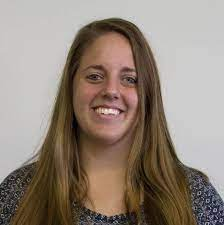
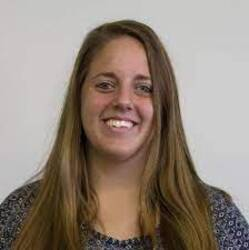
finally finished the people page (resizes correctly)

diff --git a/docs/people/index.html b/docs/people/index.html
@@ -69,15 +69,27 @@
     <!-- Convert images to right size using imagemajik-->
 <!-- from here:  https://askubuntu.com/questions/135477/how-can-i-scale-all-images-in-a-folder-to-the-same-width-->
 <!-- convert 'michelle.jpg[250x]' michelle-resized.jpg -->
-<p><img align="left" src="Silverman-Justin.jpg" style="max-width: 30%; border-radius: 50%; margin-right: 5%">  <br />  <br /><a href="http://justin-silverman.com">Justin Silverman (PI)</a></p>
-<p><img align="left" src="michelle-resized.jpg" style="max-width: 35%; border-radius: 50%; margin-right: 5%"> <br /> <br /><a href="https://ist.psu.edu/directory/map5672">Michelle Nixon (Assistant Research Professor)</a></p>
-<p><img align="left" src="kyle.png" style="max-width: 30%;  border-radius: 50%; margin-right: 5%"> <br /><br />
-<a href="https://www.huck.psu.edu/people/kyle-mcgovern">Kyle McGovern (PhD Student, Bioinformatics and Genomics)</a></p>
-<p>Andrew Sugarman (PhD Student, Bioinformatics and Genomics))</p>
-<p>Tinghua Chen (PhD Student, Informatics)</p>
-<p>Zhao Ma (Masters Student, Informatics)</p>
+<div>
+<img align="left" src="Silverman-Justin.jpg" style="max-width: 150px; width: 30%; border-radius: 50%; margin-right: 5%">  <br />  <a href="http://justin-silverman.com"> Dr. Justin Silverman, MD, PhD</a>
+<br />Principle Investigator
+</div>
+<div style>
+<img align="left" src="michelle.jpg" style="max-width: 150px; width: 30%; border-radius: 50%; margin-right: 5%">  <br />  <a href="https://ist.psu.edu/directory/map5672"> Dr. Michelle Nixon, PhD</a>
+<br /> Assistant Research Professor
+</div>
+<div>
+<img align="left" src="kyle.png" style="max-width: 150px; width: 30%; border-radius: 50%; margin-right: 5%">  <br />  <a href="https://www.huck.psu.edu/people/kyle-mcgovern"> Kyle McGovern </a>
+<br /> PhD Student, Bioinformatics and Genomics
+</div>
+<p>Andrew Sugarman <br />
+PhD Student, Bioinformatics and Genomics</p>
+<p>Tinghua Chen <br />
+PhD Student, Informatics</p>
+<p>Zhao Ma <br />
+Masters Student, Informatics</p>
 <h1 id="graduated">Graduated</h1>
-<p><a href="https://ist.psu.edu/directory/fbm5122">Farhani Momotaz (Masters Student, Informatics)</a></p>
+<p><a href="https://ist.psu.edu/directory/fbm5122">Farhani Momotaz</a> <br />
+Masters Student, Informatics</p>
 
 </article>
 <nav role="navigation">

diff --git a/content/people/_index.md b/content/people/_index.md
@@ -8,25 +8,37 @@ date: 2022-05-20
 <!-- convert 'michelle.jpg[250x]' michelle-resized.jpg -->
 
 
-
-<img align="left" src="Silverman-Justin.jpg" style="max-width: 30%; border-radius: 50%; margin-right: 5%">  <br />  <br />[Justin Silverman (PI)](http://justin-silverman.com)
-
-
-
-<img align="left" src="michelle-resized.jpg" style="max-width: 35%; border-radius: 50%; margin-right: 5%"> <br /> <br />[Michelle Nixon (Assistant Research Professor)](https://ist.psu.edu/directory/map5672)
+<div>
+<img align="left" src="Silverman-Justin.jpg" style="max-width: 150px; width: 30%; border-radius: 50%; margin-right: 5%">  <br />  <a href="http://justin-silverman.com"> Dr. Justin Silverman, MD, PhD</a>
+<br />Principle Investigator
+</div>
 
 
 
-<img align="left" src="kyle.png" style="max-width: 30%;  border-radius: 50%; margin-right: 5%"> <br /><br />
-[Kyle McGovern (PhD Student, Bioinformatics and Genomics)](https://www.huck.psu.edu/people/kyle-mcgovern)
+<div style>
+<img align="left" src="michelle.jpg" style="max-width: 150px; width: 30%; border-radius: 50%; margin-right: 5%">  <br />  <a href="https://ist.psu.edu/directory/map5672"> Dr. Michelle Nixon, PhD</a>
+<br /> Assistant Research Professor
+</div>
 
-Andrew Sugarman (PhD Student, Bioinformatics and Genomics))
 
-Tinghua Chen (PhD Student, Informatics)
+<div>
+<img align="left" src="kyle.png" style="max-width: 150px; width: 30%; border-radius: 50%; margin-right: 5%">  <br />  <a href="https://www.huck.psu.edu/people/kyle-mcgovern"> Kyle McGovern </a>
+<br /> PhD Student, Bioinformatics and Genomics
+</div>
 
-Zhao Ma (Masters Student, Informatics)
+
+
+Andrew Sugarman <br />
+PhD Student, Bioinformatics and Genomics
+
+Tinghua Chen <br /> 
+PhD Student, Informatics
+
+Zhao Ma <br /> 
+Masters Student, Informatics
 
 # Graduated
 
-[Farhani Momotaz (Masters Student, Informatics)](https://ist.psu.edu/directory/fbm5122)
+<a href="https://ist.psu.edu/directory/fbm5122">Farhani Momotaz</a> <br />
+Masters Student, Informatics
 
